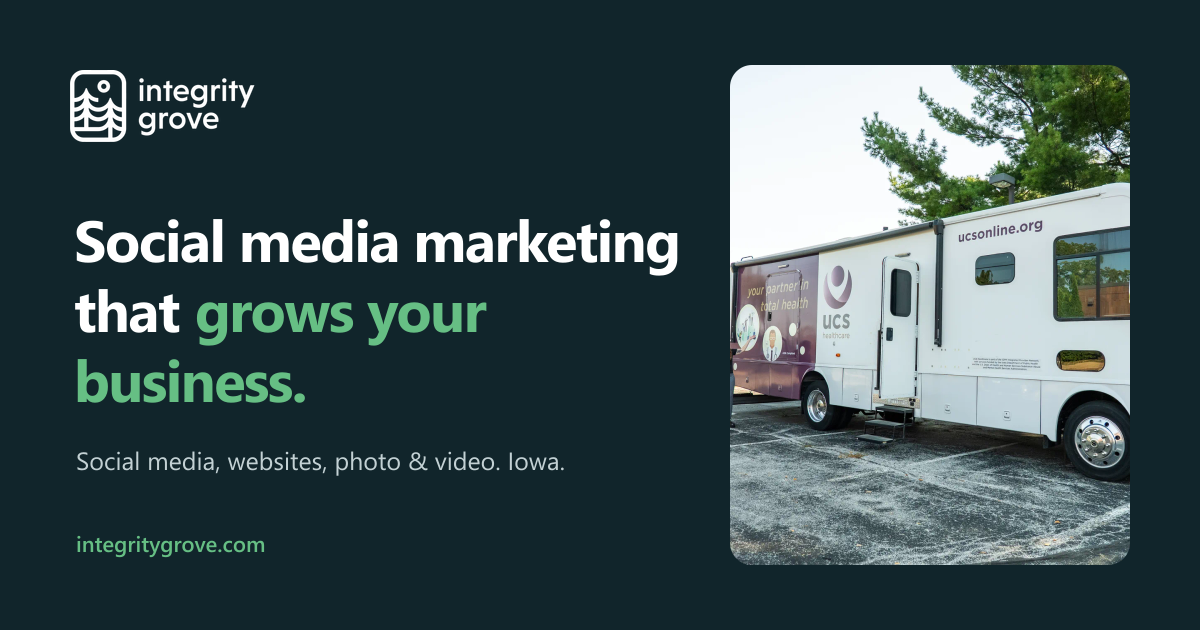
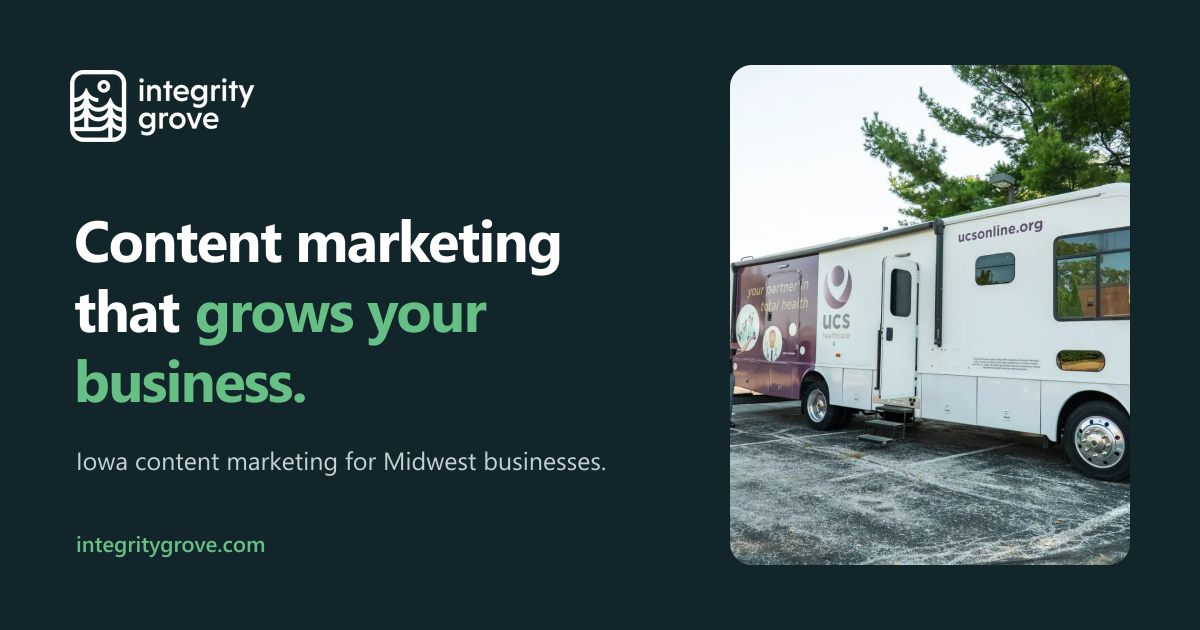
Reposition as an Iowa content marketing agency for Midwest businesses
- Hero: Content marketing that actually grows your business, Iowa/Midwest eyebrow
  and lede; manifesto rewritten around making content in-house
- Services reordered content-first: photo & video, social media, websites & SEO
- Site title, default description, footer blurb, marquees and share image updated
- Schema: description, areaServed Iowa + Midwestern United States, knowsAbout

Changed region(s): [[0.0617, 0.3317, 0.5858, 0.4524], [0.0617, 0.7238, 0.5242, 0.754]]

diff --git a/CLAUDE.md b/CLAUDE.md
@@ -2,7 +2,7 @@
 
 Marketing agency site for Integrity Grove (Aaron Jarnagin, Strategy Lead & Partner, and Isaac Jarnagin). Social media account management, websites and digital assets, photo and video production. Being rebuilt in October 2026 from a WordPress/Divi site into a custom static site, same setup as the aaronjarnagin and aarongoesoutdoors sites.
 
-Positioning: small agency, full attention, original content, real results. "We're a small agency, and we like it that way."
+Positioning (updated 2026-10-29): **an Iowa content marketing agency for Midwest businesses.** Content first (photo and video made in-house), then put to work on social media, websites and search. Small agency, full attention, two founders, real results. Default site title "Integrity Grove | Iowa Content Marketing Agency". Keep claims honest: most clients are in Iowa, a few elsewhere in the Midwest and beyond (Ohio, Philadelphia), so "Iowa-based, serving the Midwest" rather than "Midwest's leading". The service page URLs still say social-media / websites on purpose (old URLs, rankings).
 
 ## Output rules
 
